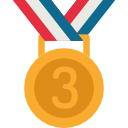
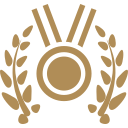
Finalize show page and fix weekly reading function bug due to the sunday 0 issuer

diff --git a/miniprogram/pages/showPage/showPage.js b/miniprogram/pages/showPage/showPage.js
@@ -13,7 +13,11 @@ Page({
     avgScores: 0,
     refDate: '2019/01/01',
     badgeURL: '',
-    openid: ''
+    award: '',
+    openid: '',
+    username: '',
+
+    section_margin: 'l'
   },
 
   updatePage: function() {
@@ -31,27 +35,33 @@ Page({
       success: res => {
         const showStats = res.result
         
+        let award = 'Lazy'
         let url = '../../images/showPageImages/lazy.png'
+        
+        if (showStats.numDays === 0) {
+          url = '../../images/showPageImages/lazy.png'
+          award = 'Lazy'
+        } else if (showStats.numDays === 1) {
+          url = '../../images/showPageImages/bronze.png'
+          award = 'Bronze'
+        } else if (showStats.numDays > 1 && showStats.numDays < 4) {
+          url = '../../images/showPageImages/silver.png'
+          award = 'Silver'
+        } else if (showStats.numDays === 4) {
+          url = '../../images/showPageImages/gold.png'
+          award = 'Gold'
+        } else if (showStats.numDays > 4) {
+          url = '../../images/showPageImages/trophy.png'
+          award = 'Trophy'
+        }
+        
+        const sysh = app.globalData.sys_info.screenHeight
+        const sysw = app.globalData.sys_info.screenWidth
+        
+        let section_margin = 'l'
 
-        switch (showStats.numDays) {
-          case 0:
-            url = '../../images/showPageImages/lazy.png'
-            break
-          case 1:
-            url = '../../images/showPageImages/bronze.png'
-            break
-          case 2:
-            url = '../../images/showPageImages/silver.png'
-            break
-          case 3:
-            url = '../../images/showPageImages/silver.png'
-            break
-          case 4:
-            url = '../../images/showPageImages/gold.png'
-            break
-          case 5, 6, 7:
-            url = '../../images/showPageImages/trophy.png'
-            break
+        if (sysh / sysw < 1.4) {
+          section_margin = 's'
         }
 
         this.setData({
@@ -63,7 +73,14 @@ Page({
           numQuestions: app.utility.getStatsNumString(showStats.numQuestions),
           avgScores: app.utility.getStatsNumString(showStats.avgScores),
 
-          badgeURL: url
+          username: showStats.userInfo.nickName,
+
+          badgeURL: url,
+          refDate: app.utility.getDateStringCh(new Date()),
+
+          award: award,
+
+          section_margin: section_margin
         })
       },
 

diff --git a/cloudfunctions/showStats/index.js b/cloudfunctions/showStats/index.js
@@ -30,7 +30,7 @@ function getDateString (dt) {
 
 function getWeeklyStats (read_hist_data) {
   // mark stars
-  let last_d = 0
+  let last_d = -1
   let count_d = 0
 
   for (const dt of read_hist_data) {
@@ -43,10 +43,14 @@ function getWeeklyStats (read_hist_data) {
   }
 
   let score = 0
+  let tot_score = 0
 
   if (read_hist_data.length > 0) {
-    const tot_score = read_hist_data.reduce((acc, curr) => acc.score + curr.score)
-    let score = Math.round(tot_score / read_hist_data.length)
+    for (let i = 0; i < read_hist_data.length; i++) {
+      tot_score = tot_score + read_hist_data[i].score
+    }
+
+    score = Math.round(tot_score / read_hist_data.length)
   }
 
   return {
@@ -116,7 +120,7 @@ exports.main = async (event, context) => {
     _openid: openid
   }).get()
 
-  const userInfo = userRes.data
+  const userInfo = userRes.data[0]
 
   return {
     event, 
@@ -125,6 +129,8 @@ exports.main = async (event, context) => {
     numWords, 
     numQuestions,
     avgScores: weeklyStats.avg_scores,
-    weeklyData
+    weeklyData,
+    weeklyStats,
+    userInfo
   }
 }

diff --git a/miniprogram/pages/user/user.js b/miniprogram/pages/user/user.js
@@ -5,7 +5,7 @@ Page({
     loading: true,
     load_error: false,
     msg: '读取中',
-
+    
     is_stats_loaded: false,
     is_weekly_loaded: false,
 
@@ -82,13 +82,19 @@ Page({
     default_week[td-1].cls_dt = 'today'
 
     // mark stars
-    let last_d = 0
+    let last_d = -1
     let count_d = 0
 
     for (const dt of read_hist_data) {
       let d = new Date(dt.date).getDay()
+      
       if (last_d !== d) {
-        default_week[d - 1].cls_star = 'star-active'
+        if (d === 0) {
+          default_week[default_week.length - 1].cls_star = 'star-active'
+        } else {
+          default_week[d - 1].cls_star = 'star-active'
+        }
+
         count_d = count_d + 1
         last_d = d
       }
@@ -131,7 +137,7 @@ Page({
         let read_hist_data = res.result.data
         
         let num_read_day = this.getNumReadDay(read_hist_data, dt.td_day)
-
+        
         this.setData({
           week_read_num: num_read_day.week_read_num,
           week: num_read_day.week,

diff --git a/miniprogram/app.js b/miniprogram/app.js
@@ -5,6 +5,22 @@ App({
 
     // utility functions
     this.utility = {
+      getDateStringCh: function (dt) {
+        let y = dt.getFullYear()
+        let m = dt.getMonth() + 1
+        let d = dt.getDate()
+
+        if (m < 10) {
+          m = '0' + m
+        }
+
+        if (d < 10) {
+          d = '0' + d
+        }
+
+        return y + '/' + m + '/' + d
+      },
+
       getDateString: function (dt) {
         return dt.getFullYear() + '-'
           + dt.getMonth() + '-'
